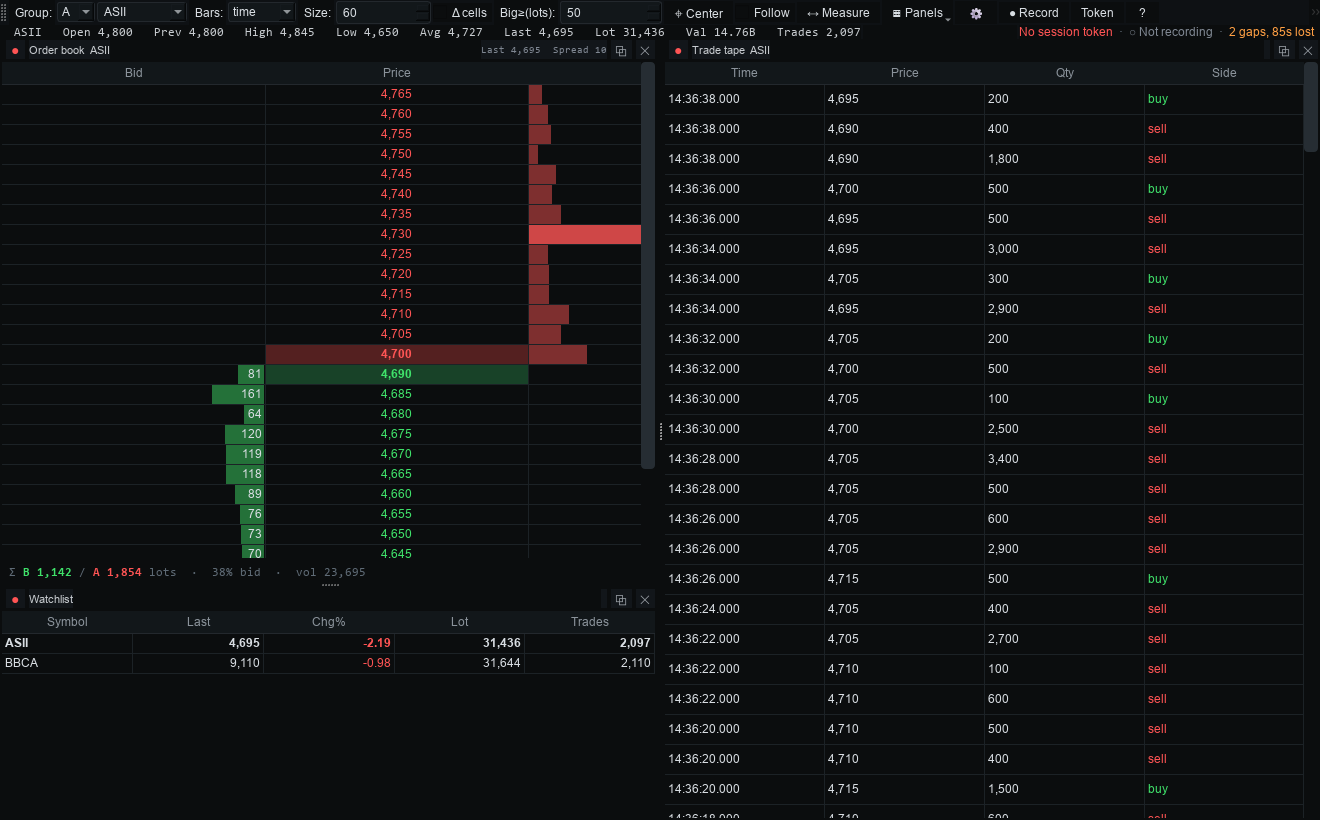
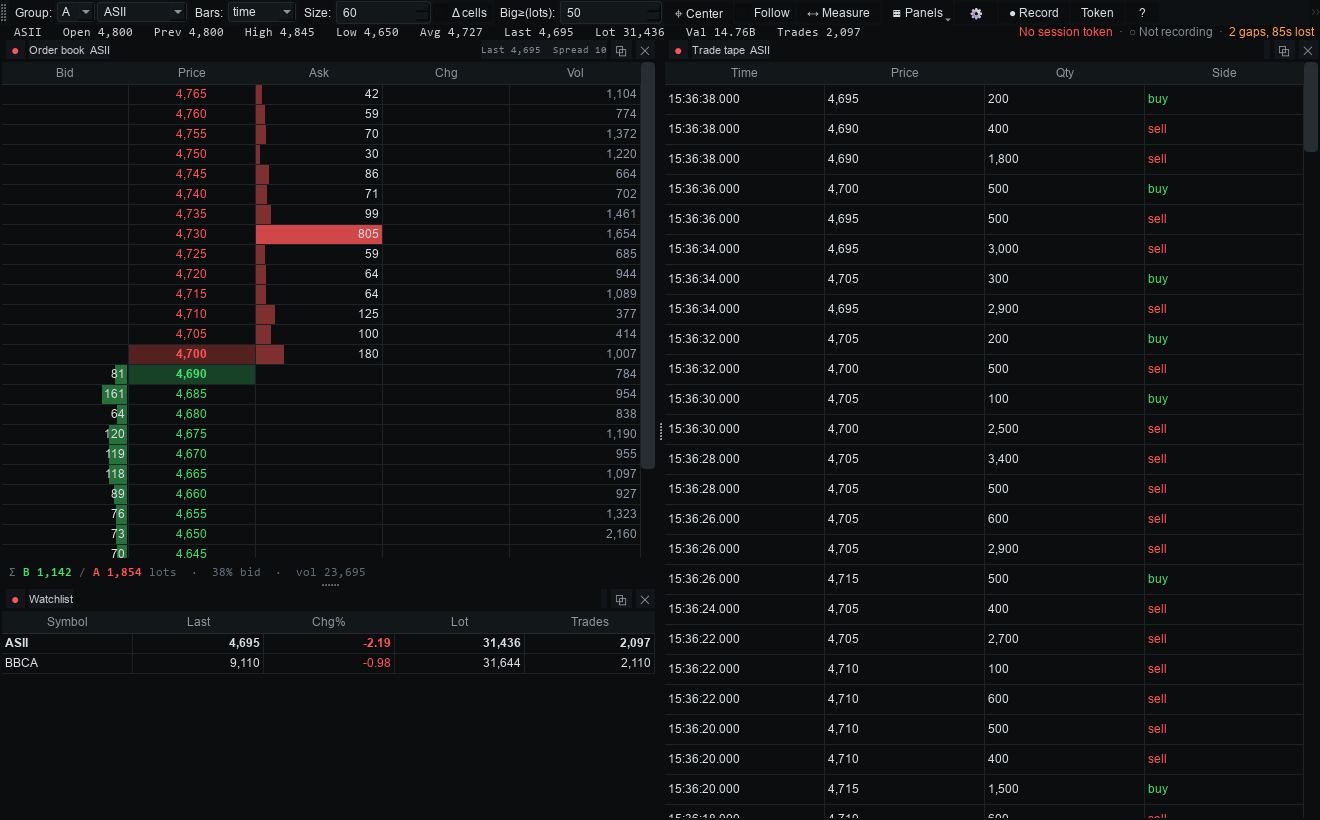
Repo presentation: fix two screenshot bugs, badges, diagram, community files
The GitHub page had no badges, no diagram, and a hero screenshot with two
visible rendering bugs. Polishing the page while shipping those would have
advertised them, so they are fixed first and the images regenerated.

Fixed
- VWAP and VAH price labels shared labelOpts position 0.04 and overprinted into
  an unreadable smear. VWAP normally sits inside the value area, so the two land
  within a tick of each other most of the time. Staggered to 0.04 / 0.24 / 0.44
  so they cannot collide at any price.
- The order book clipped its last column on a fresh install. dom_resizable
  defaults to True, selecting Interactive header mode, where every section keeps
  its ~100px default and setStretchLastSection only GROWS the last one into
  spare room -- it never shrinks the others. Columns now share the viewport
  until a width is actually dragged, after which the saved state wins. Interactive
  mode is kept, so drag-to-resize still works; an earlier attempt at this used
  Stretch mode, which would have blocked dragging and made the saved widths
  unreachable forever.
- Four links in docs/ARCHITECTURE.md used the path:line form, which does not
  render on GitHub, and were relative to docs/ so they resolved to
  docs/orderflow/... The line numbers had also moved. Now plain relative paths.

Added
- README badges (CI, latest tag, Python, licence) and a Mermaid data-flow
  diagram, which GitHub renders natively so there is no image to maintain.
[…]

Changed region(s): [[0.0621, 0.0915, 0.497, 0.7012], [0.4659, 0.1829, 0.497, 0.2439]]

diff --git a/orderflow/panels.py b/orderflow/panels.py
@@ -299,15 +299,18 @@ class FootprintPanel(ChartPanel):
         self.p.vb.sigRangeChangedManually.connect(self._manual)
 
         dot = QtCore.Qt.PenStyle.DotLine
+        # Staggered x positions. VWAP normally sits INSIDE the value area, so
+        # VWAP/VAH/VAL can land within a tick of each other; sharing an x made
+        # the labels overprint into an unreadable smear.
         self.vwap_line = pg.InfiniteLine(angle=0, pen=pg.mkPen("#5ad1ff", width=1, style=dot),
                                          label="VWAP {value:.0f}",
                                          labelOpts={"position": 0.04, "color": "#5ad1ff"})
         self.vah_line = pg.InfiniteLine(angle=0, pen=pg.mkPen("#9aa0a6", width=1, style=dot),
                                         label="VAH {value:.0f}",
-                                        labelOpts={"position": 0.04, "color": "#9aa0a6"})
+                                        labelOpts={"position": 0.24, "color": "#9aa0a6"})
         self.val_line = pg.InfiniteLine(angle=0, pen=pg.mkPen("#9aa0a6", width=1, style=dot),
                                         label="VAL {value:.0f}",
-                                        labelOpts={"position": 0.12, "color": "#9aa0a6"})
+                                        labelOpts={"position": 0.44, "color": "#9aa0a6"})
         for ln in (self.vwap_line, self.vah_line, self.val_line):
             ln.setVisible(False)
             self.p.addItem(ln, ignoreBounds=True)
@@ -900,14 +903,36 @@ class DomPanel(Panel):
             hdr.setSectionResizeMode(QtWidgets.QHeaderView.ResizeMode.Interactive)
             hdr.setStretchLastSection(True)
             blob = st.value(self._header_key(pro))
+            restored = False
             if isinstance(blob, (QtCore.QByteArray, bytes, bytearray)):
                 try:
-                    hdr.restoreState(blob)
+                    restored = bool(hdr.restoreState(blob))
                 except (TypeError, ValueError):
-                    pass
+                    restored = False
+            if not restored:
+                # No widths dragged yet. Interactive leaves every section at its
+                # ~100px default, and stretchLastSection only GROWS the last one
+                # into spare room -- it never shrinks the others -- so a narrow
+                # dock clipped the final column on a fresh install. Divide the
+                # viewport instead, deferred so the widget has its real width.
+                QtCore.QTimer.singleShot(0, self._fit_columns)
         else:                                    # classic auto-fit
             hdr.setStretchLastSection(False)
             hdr.setSectionResizeMode(QtWidgets.QHeaderView.ResizeMode.Stretch)
+
+    def _fit_columns(self):
+        """Share the viewport evenly across the ladder's columns. Used only when
+        no dragged widths exist -- afterwards the saved state wins."""
+        try:
+            hdr = self.dom.horizontalHeader()
+            cols = self.dom.columnCount()
+            width = self.dom.viewport().width()
+            if cols and width > 0:
+                each = max(40, width // cols)
+                for c in range(cols):
+                    hdr.resizeSection(c, each)
+        except RuntimeError:
+            pass                                 # panel closed before the timer ran
 
     def save_header(self):
         if self._dom_mode and self._dom_mode[1]:

diff --git a/tools/make_previews.py b/tools/make_previews.py
@@ -169,7 +169,9 @@ def layout(win, left, right=None, weights=None, rweights=None, group="A"):
     if rweights and len(rp) > 1:
         win.resizeDocks(rp, rweights, Q.Orientation.Vertical)
     if lp and rp:
-        win.resizeDocks([lp[0], rp[0]], [66, 34], Q.Orientation.Horizontal)
+        # 60/40 rather than 66/34: the DOM ladder is five columns wide and got
+        # its last one clipped at the narrower split.
+        win.resizeDocks([lp[0], rp[0]], [60, 40], Q.Orientation.Horizontal)
     return lp + rp
 
 
@@ -180,7 +182,7 @@ def main():
               "BBCA": synth("BBCA", 9200, seed=29, drift=-0.03)}
 
     # 1. the whole workstation, default layout
-    win, _S = build(events, ["ASII", "BBCA"])
+    win, _S = build(events, ["ASII", "BBCA"], size=(1760, 980))
     shot(win, app, "preview.png", secs=10)
 
     # 2. orderflow core: footprint over its delta footer, profile beside it

diff --git a/CONTRIBUTING.md b/CONTRIBUTING.md
@@ -1,0 +1,75 @@
+# Contributing
+
+## Getting set up
+
+```bash
+python -m venv .venv
+```
+```bash
+.venv\Scripts\python.exe -m pip install -e ".[dev]"
+```
+```bash
+pytest
+```
+
+Eleven suites, about twelve seconds. If that is green you have a working checkout.
+
+## Running the tests
+
+```bash
+pytest                      # everything
+pytest -k reconnect         # one suite
+python tests/run_all.py     # same, without pytest
+```
+
+Each suite runs in **its own process** against a throwaway `ORDERFLOW_DATA`. That is not
+stylistic: the suites monkeypatch module globals (`feed._session`,
+`feed.websockets.connect`, `app.FeedThread`) and most build a `QApplication`, which is a
+process-wide singleton. In one interpreter they would leak into each other and failures
+would depend on collection order. It also means **a test can never touch your real capture
+archive**. See [tests/README.md](tests/README.md).
+
+To add one, drop `tests/suites/yourname.py` in place. Exit non-zero on failure and print a
+`PASS: ...` line per check. Nothing needs registering.
+
+## Things that will bite you
+
+**Units.** Order-book `value` is **shares**, so `lots = value / 100`. Getting this wrong
+yields numbers that look plausible and are not. `docs/protocol.md` records an earlier
+revision of the notes making exactly this mistake.
+
+**Tick size comes from the book ladder, not from traded prices.** The book is dense and
+exactly tick-spaced by the exchange; a sparse day or one off-tick negotiated print will
+corrupt the price grid if you infer the tick from trades.
+
+**Anything that writes the archive must take the lock.** `capture.take_lock()` and then
+`capture.touch_lock()` at least every `STALE_AFTER_SEC`, or other writers will correctly
+conclude you are dead and start writing alongside you. Two writers interleave rows
+mid-snapshot and `replay_feed`'s `groupby` — which only groups *adjacent* rows — silently
+shreds the book into fragments that still parse.
+
+**Liveness is a heartbeat, never a pid probe.** On Windows `os.kill` with any signal other
+than `CTRL_C_EVENT`/`CTRL_BREAK_EVENT` terminates the target, so "is it alive?" would kill
+the recorder it was asking about.
+
+**The model layer imports no Qt.** `feed → model` must stay usable headless; that is what
+lets the backtest and the recorder run without a GUI. Keep rendering in `panels.py` and
+`items.py`.
+
+## Adding a panel
+
+One class in `panels.py` with the `@register` decorator, one line in `app.py`'s
+`PANEL_MENU`. `tests/suites/panels_smoke.py` will pick it up automatically and assert it
+builds and refreshes.
+
+## Pull requests
+
+Keep the version in `orderflow/__init__.py` alone — bumping it is a release, not a PR. Add
+your entry to `CHANGELOG.md` under `## [Unreleased]`. The release procedure lives in the
+README.
+
+## Screenshots
+
+`python tools/make_previews.py` regenerates `docs/img/` headlessly from a **synthetic**
+random-walk session. Never commit a screenshot of real market data: the window shows your
+symbols, your positions in the tape, and your session state.

diff --git a/README.md b/README.md
@@ -1,5 +1,10 @@
 # Orderflow Station
 
+[![tests](https://github.com/silenccy/orderflow-station/actions/workflows/ci.yml/badge.svg)](https://github.com/silenccy/orderflow-station/actions/workflows/ci.yml)
+[![release](https://img.shields.io/github/v/tag/silenccy/orderflow-station?label=release&color=3fe26a)](https://github.com/silenccy/orderflow-station/tags)
+[![python](https://img.shields.io/badge/python-3.10%2B-blue)](https://www.python.org/downloads/)
+[![licence](https://img.shields.io/github/license/silenccy/orderflow-station?color=lightgrey)](LICENSE)
+
 An **orderflow trading terminal for Indonesian equities (IDX)** — footprint charts,
 a Bookmap-style liquidity heatmap, a DOM ladder and trade tape, built on live
 order-book and tick data from the Stockbit Pro market-data websocket.
@@ -352,6 +357,42 @@ Chart style (clusters vs candlesticks), imbalance and absorption thresholds, hea
 palette and contrast, DOM depth and columns all live in **⚙ Settings**.
 
 ## Architecture
+
+```mermaid
+flowchart LR
+    WS([" Stockbit Pro websocket "])
+    ARCH[("data/ archive<br/>book · trades · summary · gaps")]
+    LOCK{{"capture.lock heartbeat"}}
+    FEED["feed.py<br/>parse · reconnect · gap ledger"]
+    MODEL["model.py — no Qt<br/>footprint · CVD · profile · regime"]
+    PANELS["panels.py<br/>dockable panels"]
+    APP["app.py<br/>link groups A / B / C"]
+    BT["backtest.py<br/>walk-forward evaluation"]
+
+    WS -->|protobuf frames| FEED
+    ARCH -.->|replay| FEED
+    FEED -->|exactly one writer| ARCH
+    LOCK -.->|arbitrates| FEED
+    FEED -->|book · trade · summary · gap| MODEL
+    MODEL --> PANELS
+    PANELS --> APP
+    MODEL --> BT
+
+    class WS ext
+    class ARCH store
+    class LOCK lock
+    class FEED,MODEL,BT core
+    class PANELS,APP ui
+
+    classDef ext fill:#16202b,stroke:#5ad1ff,color:#e6edf3
+    classDef store fill:#16202b,stroke:#e6b450,color:#e6edf3
+    classDef lock fill:#2a1b1b,stroke:#ff9f43,color:#e6edf3
+    classDef core fill:#12203a,stroke:#3fe26a,color:#e6edf3
+    classDef ui fill:#241b33,stroke:#c792ea,color:#e6edf3
+```
+
+Live and replay emit the **same** event stream, so nothing downstream can tell them apart —
+which is what makes `--replay` a faithful rehearsal rather than a separate code path.
 
 ```
 orderflow/

diff --git a/SECURITY.md b/SECURITY.md
@@ -1,0 +1,46 @@
+# Security
+
+## The thing that actually matters here
+
+`data/subscribe_*.txt` is **not a config file — it is a live credential.** It embeds a
+JWT tied to your Stockbit account, valid for roughly 24 hours. Anyone holding it can use
+your market-data session until it expires.
+
+So:
+
+- **Never paste one into an issue, a pull request, a chat, a gist or a log.**
+- **Never commit one.** `.gitignore` covers `data/`, `subscribe*.txt`, `*.csv` and
+  `*.jsonl`. Do not work around it.
+- `data/capture_raw.jsonl` records only *received* frames, so it carries no token — the
+  subscribe frame is outbound and is never logged. Still avoid attaching it wholesale; it
+  is large and contains your full session's market data.
+- Nothing in this project ever prints the token. `--doctor` reports the frame's *size,
+  age and symbol* only, which is why it is safe to paste into a bug report.
+
+If you think you have leaked a frame: log out of Stockbit everywhere, which rotates the
+session and invalidates it. Rotating is instant and free — do it rather than hoping.
+
+## Reporting a vulnerability
+
+Use **[GitHub's private vulnerability reporting](https://github.com/silenccy/orderflow-station/security/advisories/new)**
+rather than a public issue.
+
+Please include what an attacker could do and how you got there. A proof of concept helps —
+but strip any real session frame from it first.
+
+Expect an acknowledgement within a week. This is a personal project maintained in spare
+time, not a funded product; treat that timeline as best effort rather than a commitment.
+
+## Scope
+
+In scope: anything that leaks a session frame, writes outside `ORDERFLOW_DATA`, executes
+code from captured market data, or corrupts an archive that appears intact.
+
+Out of scope, because they are known and documented:
+
+- The websocket protocol is **reverse-engineered and unofficial**. It can change or break
+  without notice. That is a stated property of the project, not a vulnerability.
+- The TREND/CHOP regime filter is **unvalidated on IDX data** and may be wrong. Trading
+  losses are not a security issue.
+- There is **no reconnect backfill** beyond what the server replays (~40 trades). Tape
+  missed during an outage is gone; the capture-integrity panel exists to make that visible.

diff --git a/docs/ARCHITECTURE.md b/docs/ARCHITECTURE.md
@@ -65,7 +65,7 @@ the browser catcher keeps only the largest frame it sees.
 
 ### The symbol-swap trick
 
-The single cleverest thing in the codebase ([feed.py:93-111](orderflow/feed.py:93)):
+The single cleverest thing in the codebase ([feed.py](../orderflow/feed.py)):
 
 ```python
 if base[i] == 0x04 and all(65 <= base[i + 1 + j] <= 90 for j in range(4)):
@@ -80,7 +80,7 @@ captured frame therefore subscribes **any** 4-letter IDX ticker. You re-grab whe
 ### Frame types — dispatched on shape, not order
 
 `live_feed` tries three parsers in sequence and takes the first that matches
-([feed.py:365-392](orderflow/feed.py:365)):
+([feed.py](../orderflow/feed.py)):
 
 1. **Book** — a protobuf wrapper around *pipe-delimited ASCII*, matched by regex
    `([A-Z]{4})\|(OFFER|BID)\|([0-9;|]+)`. Levels are `price;freq;value` triplets, ~60 per
@@ -114,7 +114,7 @@ split is materially less trustworthy than live ticks.
 ## 3. Persistence & replay (`feed.py`)
 
 `CsvSink` appends to three CSVs plus a raw JSONL, **flushing on every single write**
-([feed.py:285-307](orderflow/feed.py:285)) so a hard kill never loses data.
+([feed.py](../orderflow/feed.py)) so a hard kill never loses data.
 
 | File | Columns |
 |---|---|
@@ -244,7 +244,7 @@ painters — this is hand-rolled rendering, not stock pyqtgraph plots.
 
 `FeedThread.run()` creates a private asyncio event loop, iterates `live_feed()`, and
 **batches events for ~100 ms** before emitting `batch(list)` to the main thread
-([app.py:1697-1710](orderflow/app.py:1697)). `_on_live_batch` feeds the model incrementally
+([app.py](../orderflow/app.py)). `_on_live_batch` feeds the model incrementally
 and sets `_dirty`; a `QTimer` at `live_hz` (default 7 Hz, floored at 40 ms) calls `refresh()`
 only if dirty. Shutdown is clean: `closeEvent` → `call_soon_threadsafe(task.cancel)` → `wait(2000)`.
 

diff --git a/CHANGELOG.md b/CHANGELOG.md
@@ -10,6 +10,24 @@ capability without breaking anything. **PATCH** is fixes only.
 
 ## [Unreleased]
 
+### Added
+
+- README badges (CI, latest tag, Python, licence) and a Mermaid data-flow diagram of
+  `feed → model → panels`, rendered natively by GitHub.
+- Issue and pull-request templates, `CONTRIBUTING.md` and `SECURITY.md`. The security
+  policy leads with the real hazard: `subscribe_*.txt` is a live account credential, not
+  a config file.
+
+### Fixed
+
+- VWAP and VAH price labels shared an x position and overprinted into an unreadable smear
+  whenever VWAP sat inside the value area — which is most of the time.
+- The order book's last column was clipped on a fresh install. `Interactive` header mode
+  keeps every section at its ~100px default and `setStretchLastSection` only *grows* the
+  last one into spare room, so a narrow dock cut off `Vol`. Columns now share the viewport
+  until you drag one, after which your widths win.
+
+
 ## [2.0.0] - 2026-08-21
 
 Major, because three things break an existing setup: the `--grab` flag and the

diff --git a/.github/PULL_REQUEST_TEMPLATE.md b/.github/PULL_REQUEST_TEMPLATE.md
@@ -1,0 +1,20 @@
+## What this changes
+
+<!-- One or two sentences. Why, not just what. -->
+
+## Checklist
+
+- [ ] `pytest` passes (11 suites)
+- [ ] `CHANGELOG.md` updated under `## [Unreleased]`
+- [ ] `orderflow/__init__.py` version **untouched** — bumping it is a release, not a PR
+- [ ] No session frame, CSV, or `capture_raw.jsonl` content in the diff or the description
+
+## If this touches capture or the archive
+
+- [ ] Any new writer takes the lock (`capture.take_lock`) and heartbeats it
+- [ ] Existing archives still replay — the CSV columns are a compatibility surface
+
+## If this adds a panel
+
+- [ ] One class in `panels.py` with `@register`, one line in `app.py`'s `PANEL_MENU`
+- [ ] `panels_smoke` covers it automatically; confirm it passes
